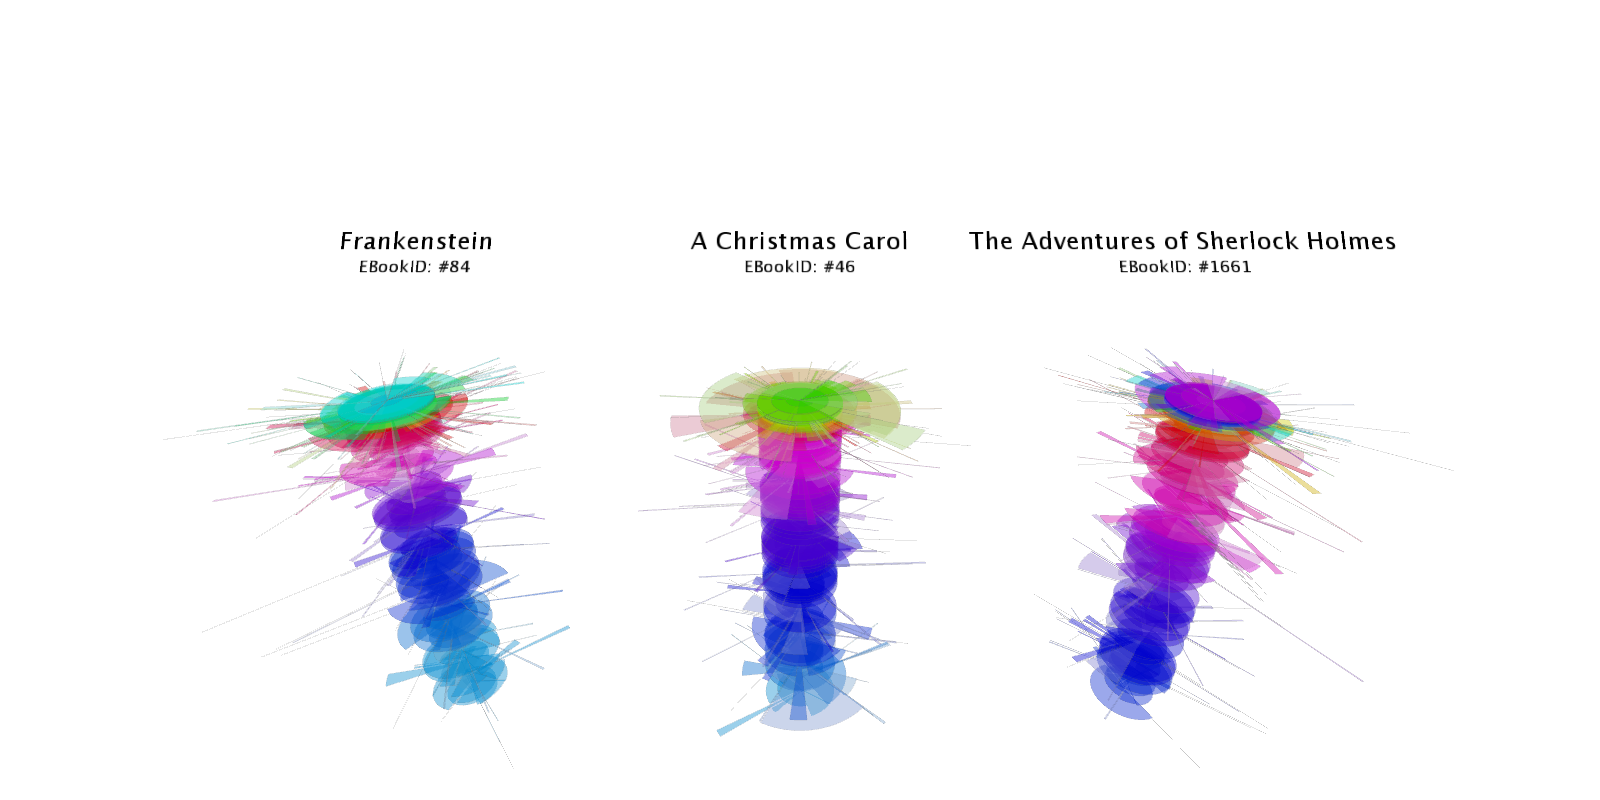
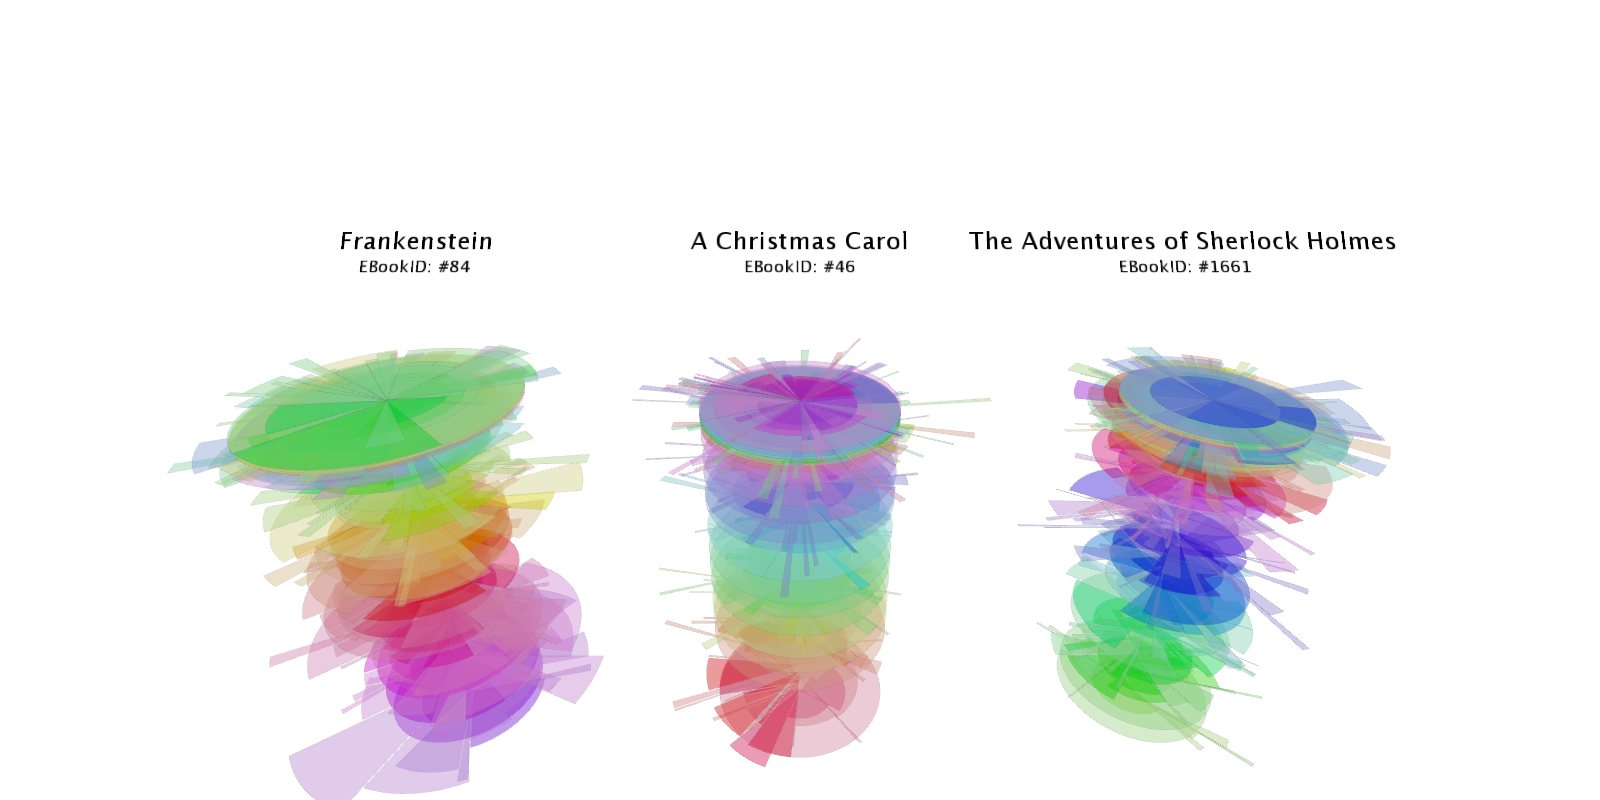
Added stop word filtering

Changed region(s): [[0.0938, 0.4375, 0.375, 1.0], [0.6562, 0.4375, 0.875, 0.9375], [0.4062, 0.4375, 0.625, 0.9688]]

diff --git a/README.md b/README.md
@@ -71,6 +71,6 @@ This takes the ideas from the Markov Chain visualisation program but instead pro
 - Each arc's radius is determined by the word length
 - Each arc's length is determined by its popularity within the body of text
 
-It might be interesting to develop this a little bit further and remove stop words before creating the visual.
+Stop words are ignored at ingestion time to try and make the comparison a little bit more interesting.
 
 ![img](pics/visualise.png)
